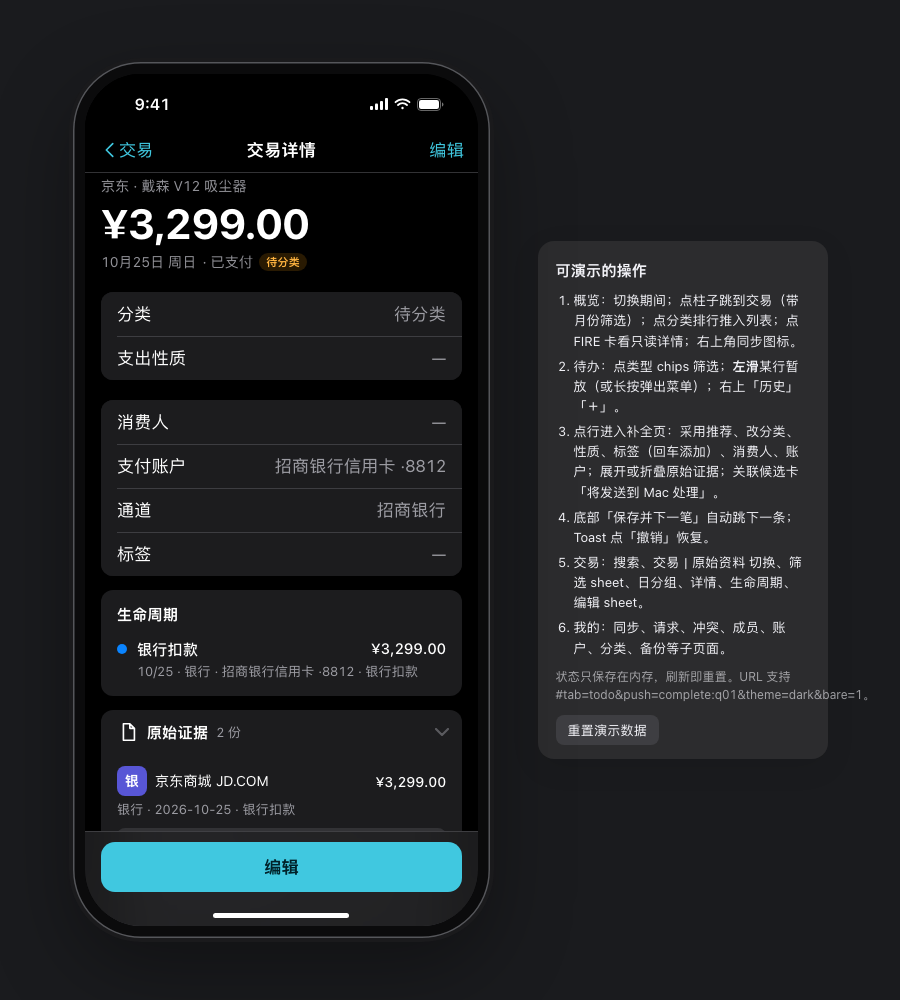
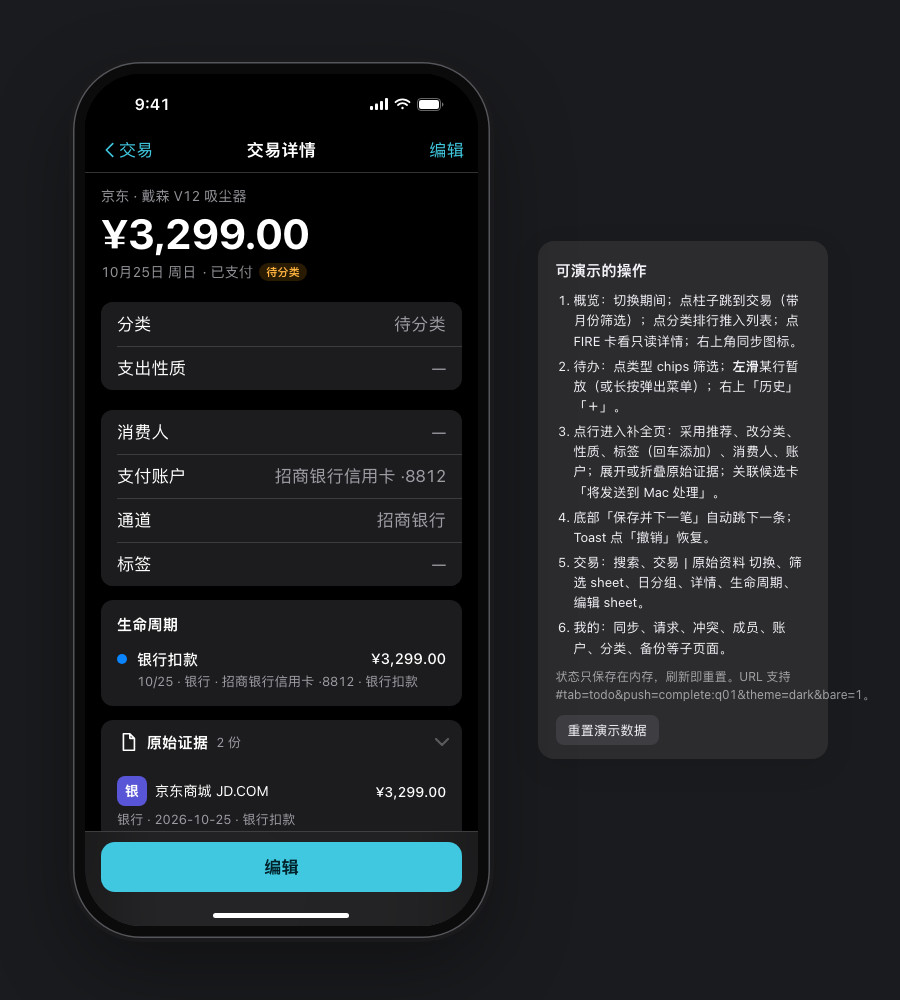
iOS prototype: add top spacing under nav on detail pages

Changed region(s): [[0.0933, 0.155, 0.5289, 0.837], [0.4044, 0.775, 0.4978, 0.806]]

diff --git a/design/prototype/ios.html b/design/prototype/ios.html
@@ -134,7 +134,7 @@ svg.i{width:22px;height:22px;fill:none;stroke:currentColor;stroke-width:1.8;stro
 .tl .it::after{content:"";position:absolute;left:-15.75px;top:17px;bottom:-5px;width:1.5px;background:var(--sep)}.tl .it:last-child{padding-bottom:2px}.tl .it:last-child::after{display:none}
 .tl .a{display:flex;font-size:15px;font-weight:500}.tl .a b{margin-left:auto;font-weight:500}.tl .s{font-size:13px;color:var(--l2);margin-top:2px;line-height:1.4}
 .pi{width:30px;height:30px;border-radius:8px;display:flex;align-items:center;justify-content:center;font-size:14px;font-weight:700;color:#fff;flex:none}
-.hdr{padding:4px 16px 0}.hdr .tt{font-size:22px;font-weight:700;line-height:1.25;margin-top:2px}.hdr .meta{display:flex;align-items:center;gap:6px;flex-wrap:wrap;margin-top:6px;font-size:14px;color:var(--l2)}
+.hdr{padding:14px 16px 0}.hdr .tt{font-size:22px;font-weight:700;line-height:1.25;margin-top:2px}.hdr .meta{display:flex;align-items:center;gap:6px;flex-wrap:wrap;margin-top:6px;font-size:14px;color:var(--l2)}
 .hdr .pos{font-size:13px;color:var(--l2)}
 .fadein{animation:fi .28s ease}@keyframes fi{from{opacity:0;transform:translateX(18px)}to{opacity:1;transform:none}}
 .shake{animation:sh .35s}@keyframes sh{20%{transform:translateX(-6px)}40%{transform:translateX(6px)}60%{transform:translateX(-4px)}80%{transform:translateX(4px)}}
